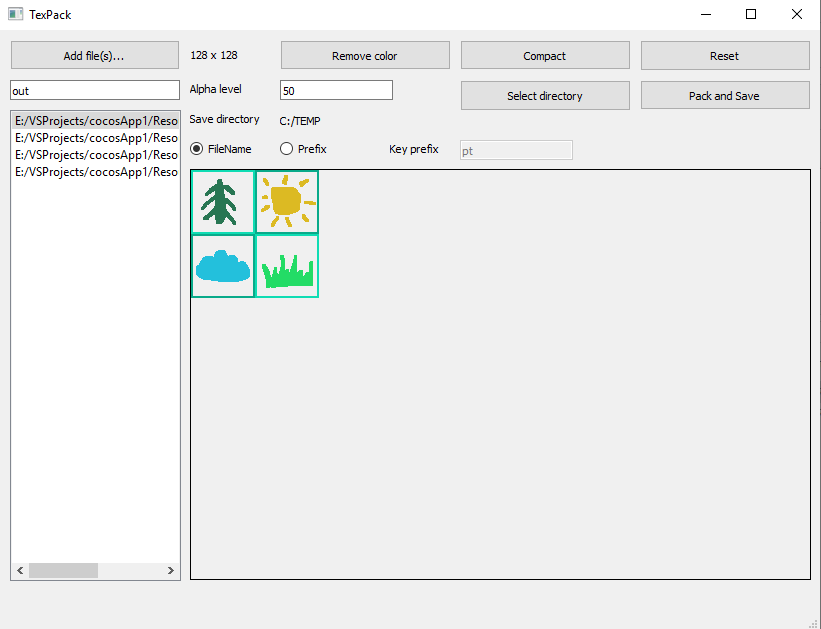
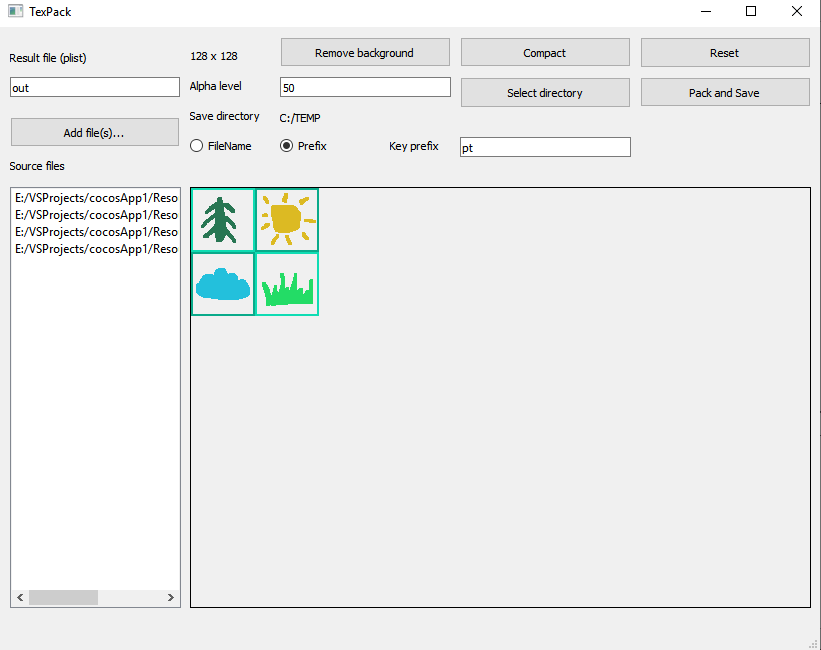
Add files via upload

diff --git a/mainwindow.cpp b/mainwindow.cpp
@@ -6,8 +6,8 @@ MainWindow::MainWindow(QWidget *parent)
     , ui(new Ui::MainWindow) {
     ui->setupUi(this);
     model = new QStringListModel(this);
-    ui->listView->setModel(model);
-    ui->listView->installEventFilter(this);
+    ui->lstvwSourceFiles->setModel(model);
+    ui->lstvwSourceFiles->installEventFilter(this);
     QTextCodec::setCodecForLocale(QTextCodec::codecForName("UTF-8"));
     saveDirectory = qApp->applicationDirPath();
     ui->lblDirectoryPath->setText(saveDirectory);
@@ -15,17 +15,39 @@ MainWindow::MainWindow(QWidget *parent)
 }
 
 MainWindow::~MainWindow() {
-    delete ui;
+    if(ui) delete ui;
+    if(model) delete model;
+    pixmapRects.clear();
 }
 
-bool MainWindow::eventFilter(QObject* object, QEvent* event)
-{
+bool MainWindow::eventFilter(QObject* object, QEvent* event) {
     if (event->type() == QEvent::KeyPress) {
         QKeyEvent* keyEvent = static_cast<QKeyEvent *>(event);
         if (keyEvent->key() == Qt::Key_Delete) {
-            model->removeRow(ui->listView->currentIndex().row());
-            ui->lblPreview->clear();
-            ui->lblSize->setText("0 x 0");
+            if(model->rowCount() <= 0) {
+                return false;
+            }
+            int index = ui->lstvwSourceFiles->currentIndex().row();
+            pixmapRects.erase(pixmapRects.begin() + index);
+            model->removeRow(index);
+            if(model->rowCount() > 0) {
+              index = ui->lstvwSourceFiles->currentIndex().row();
+              ui->lblPreview->setPixmap(QPixmap::fromImage(pixmapRects[index].image));
+              ui->lblSize->setText(QString::number(pixmapRects[index].rect.width()) + " x " + QString::number(pixmapRects[index].rect.height()));
+            }
+            else {
+              ui->lblPreview->clear();
+              ui->lblSize->setText("0 x 0");
+            }
+        }
+        if (keyEvent->key() == 'R') {
+            if(model->rowCount() <= 0) {
+                return false;
+            }
+            int index = ui->lstvwSourceFiles->currentIndex().row();
+            pixmapRects[index].image = QImage(model->index(index).data().toString());
+            ui->lblPreview->setPixmap(QPixmap::fromImage(pixmapRects[index].image));
+            ui->lblSize->setText(QString::number(pixmapRects[index].rect.width()) + " x " + QString::number(pixmapRects[index].rect.height()));
         }
         return true;
     }
@@ -36,26 +58,23 @@ bool MainWindow::eventFilter(QObject* object, QEvent* event)
 
 void MainWindow::on_btnFilesOpen_clicked() {
     QStringList files = QFileDialog::getOpenFileNames(this, "Select one or more files to open", "/home", "Images (*.png)");
-    //if(files.empty()) return;
-    //model->removeRows(0, model->rowCount());
     int row;
     for(auto it = files.begin(); it != files.end(); it++) {
         row = model->rowCount();
         model->insertRows(row, 1);
         QModelIndex index = model->index(row);
         model->setData(index, it->toLocal8Bit().constData());
+        QImage image(index.data().toString());
+        QSize size = image.size();
+        pixmapRects.push_back(stPixmapRect(QRect(0, 0, size.width(), size.height()), image,
+            QFileInfo(model->index(row).data().toString()).fileName()));
     }
-
-    //ui->lblPreview->clear();
-    //ui->lblPreview->setText("Preview Image");
-    //ui->lblSize->setText("0 x 0");
 }
 
 void MainWindow::on_listView_clicked(const QModelIndex &index) {
     ui->lblPreview->clear();
 
-    QImage mainImage(index.data().toString());
-    QPixmap mainPixmap = QPixmap::fromImage(mainImage);
+    QPixmap mainPixmap = QPixmap::fromImage(pixmapRects[index.row()].image); //error!
     QSize size = mainPixmap.size();
 
     ui->lblSize->setText(QString::number(size.width()) + " x "+ QString::number(size.height()));
@@ -76,38 +95,31 @@ void MainWindow::on_listView_clicked(const QModelIndex &index) {
 }
 
 void MainWindow::on_btnRemoveColor_clicked() {
-    QPixmap mainPixmap = ui->lblPreview->pixmap(Qt::ReturnByValue);
-    if(mainPixmap.isNull()) {
+    int index = ui->lstvwSourceFiles->currentIndex().row();
+    if(model->rowCount() <= 0 || index < 0) {
         return;
     }
-
-    QImage mainImage(mainPixmap.toImage());
-
-    QBitmap colorMask = mainPixmap.createMaskFromColor(mainImage.pixel(0,0), Qt::MaskOutColor);
-    QImage maskImage(mainPixmap.size(), QImage::Format_RGBA8888);
-    QPainter maskPainter(&maskImage);
-    maskPainter.setPen(QColor(255, 255, 255));
-    maskPainter.drawPixmap(mainPixmap.rect(), colorMask, colorMask.rect());
-    maskPainter.end();
-    QPixmap maskPixmap = QPixmap::fromImage(maskImage);
-
-    QImage resultImage(mainPixmap.size(), QImage::Format_RGBA8888);
-    QPainter resultPainter(&resultImage);
-    resultPainter.setClipRegion(QRegion(maskPixmap));
-    resultPainter.drawPixmap(0, 0, mainPixmap);
-    resultPainter.end();
-    mainPixmap = QPixmap::fromImage(resultImage);
-
-    ui->lblPreview->setPixmap(mainPixmap);
+    QImage& image = pixmapRects[index].image;
+    QPixmap maskPixmap(QPixmap::fromImage(image));
+    if(maskPixmap.isNull()) {
+        return;
+    }
+    maskPixmap.setMask(maskPixmap.createHeuristicMask());
+    image = QImage(maskPixmap.toImage());
+    ui->lblPreview->setPixmap(maskPixmap);
 }
 
 void MainWindow::on_btnCompactImage_clicked() {
-    QPixmap mainPixmap = ui->lblPreview->pixmap(Qt::ReturnByValue);
+    int index = ui->lstvwSourceFiles->currentIndex().row();
+    if(model->rowCount() <= 0 || index < 0) {
+        return;
+    }
+    QImage& image = pixmapRects[index].image;
+    QPixmap mainPixmap(QPixmap::fromImage(image));
     if(mainPixmap.isNull()) {
         return;
     }
 
-    QImage mainImage(mainPixmap.toImage());
     QString preLevel = ui->edtAlphaLevel->text();
     preLevel.replace(" ", "");
     int level = 50;
@@ -115,11 +127,11 @@ void MainWindow::on_btnCompactImage_clicked() {
       level = preLevel.toInt();
     }
 
-    //need think about optimize
-    int min[2] = {mainImage.width(), mainImage.height()}, max[2] = {0, 0};
-    for (int x = 1 ; x < mainImage.width() - 1; x++) {
-        for (int y = 1 ; y < mainImage.height() - 1; y++) {
-            QColor currentPixel = mainImage.pixelColor(x, y);
+    //detect new rect
+    int min[2] = {image.width(), image.height()}, max[2] = {0, 0};
+    for (int x = 1 ; x < image.width() - 1; x++) {
+        for (int y = 1 ; y < image.height() - 1; y++) {
+            QColor currentPixel = image.pixelColor(x, y);
             if (currentPixel.alpha() > level) {
                 if(min[0] > x) min[0] = x;
                 if(min[1] > y) min[1] = y;
@@ -130,31 +142,18 @@ void MainWindow::on_btnCompactImage_clicked() {
     }
 
     QRect rect(min[0], min[1], max[0], max[1]);
-    mainImage = mainImage.copy(rect);
-    mainPixmap = QPixmap::fromImage(mainImage);
+    image = image.copy(rect);
+
+    QPixmap newPixmap = QPixmap::fromImage(image);
     QSize size = mainPixmap.size();
 
-    ui->lblPreview->setPixmap(mainPixmap);
+    ui->lblPreview->setPixmap(newPixmap);
     ui->lblSize->setText(QString::number(size.width()) + " x " + QString::number(size.height()));
 }
 
 void MainWindow::on_btnPackImages_clicked() {
     int rowNumber = model->rowCount();
     if(!rowNumber) return;
-
-    std::vector<stPixmapRect> pixmapRects;
-    std::vector<QImage> images;
-    pixmapRects.reserve(rowNumber);
-    images.reserve(rowNumber);
-
-    for(int i=0; i<rowNumber; i++) {
-        QImage image(model->index(i).data().toString());
-        QSize size = image.size();
-        images.push_back(image);
-        //pixmapRects.push_back(stPixmapRect(QRect(0, 0, size.width(), size.height()), &images[i]));
-        pixmapRects.push_back(stPixmapRect(QRect(0, 0, size.width(), size.height()), &images[i],
-            QFileInfo(model->index(i).data().toString()).fileName()));
-    }
 
     QSize resultSize(0, 0);
     std::vector<stPixmapRect> result = packRects2(pixmapRects, resultSize);
@@ -163,10 +162,9 @@ void MainWindow::on_btnPackImages_clicked() {
     QPainter resultPainter(&resultImage);
     for(size_t i=0; i < result.size(); i++) {
         QRect rect = result[i].rect;
-        QImage image = *result[i].pImage;
         resultPainter.fillRect(rect, Qt::transparent);
         resultPainter.setCompositionMode(QPainter::CompositionMode_Source);
-        resultPainter.drawImage(rect, image);
+        resultPainter.drawImage(rect, result[i].image);
     }
     QPixmap mainPixmap = QPixmap::fromImage(resultImage);
     ui->lblPreview->setPixmap(mainPixmap);
@@ -196,6 +194,7 @@ void MainWindow::on_btnPackImages_clicked() {
         for(size_t i=0; i < result.size(); i++) {
             if(ui->edtKeyPrefix->isEnabled()) {
                 prefixName = ui->edtKeyPrefix->text();
+                prefixName.replace(" ", "");
                 if(prefixName.length() <= 0) {
                     prefixName = "pt";
                 }
@@ -244,22 +243,22 @@ void MainWindow::on_btnPackImages_clicked() {
         out << "\t\t\t<key>format</key>\n";
         out << "\t\t\t<integer>3</integer>\n";
         out << "\t\t\t<key>pixelFormat</key>\n";
+
         //may change
         out << "\t\t\t<string>RGBA8888</string>\n";
         out << "\t\t\t<key>premultiplyAlpha</key>\n";
         out << "\t\t\t<false/>\n";
         out << "\t\t\t<key>realTextureFileName</key>\n";
-        out << "\t\t\t<string>" << ui->edtOutFilename->text() << ".png" << "</string>\n";
+        out << "\t\t\t<string>" << outFile << ".png" << "</string>\n";
         out << "\t\t\t<key>size</key>\n";
         out << "\t\t\t<string>{" << resultSize.width() << "," << resultSize.height() << "}</string>\n";
         out << "\t\t\t<key>textureFileName</key>\n";
-        out << "\t\t\t<string>" << ui->edtOutFilename->text() << ".png</string>\n";
+        out << "\t\t\t<string>" << outFile << ".png</string>\n";
         out << "\t\t</dict>\n";
         out << "\t</dict>\n</plist>";
     }
 
-    pixmapRects.clear();
-    images.clear();
+    //pixmapRects.clear();
     result.clear();
 }
 
@@ -295,7 +294,7 @@ std::vector<stPixmapRect> MainWindow::packRects2(std::vector<stPixmapRect> rects
             }
 
             //add rect
-            stPixmapRect pixmapRect(QRect(spaces[j].x(), spaces[j].y(), rects[i].rect.width(), rects[i].rect.height()), rects[i].pImage, rects[i].filename);
+            stPixmapRect pixmapRect(QRect(spaces[j].x(), spaces[j].y(), rects[i].rect.width(), rects[i].rect.height()), rects[i].image, rects[i].filename);
             packed.push_back(pixmapRect);
             resultSize.setWidth(std::max(resultSize.width(), pixmapRect.rect.x() + pixmapRect.rect.width()));
             resultSize.setHeight(std::max(resultSize.height(), pixmapRect.rect.y() + pixmapRect.rect.height()));
@@ -328,10 +327,11 @@ void MainWindow::on_btnSelectDirectory_clicked() {
 }
 
 void MainWindow::on_btnReset_clicked() {
-    model->removeRows(0, model->rowCount());
     ui->lblPreview->clear();
     ui->lblPreview->setText("Preview Image");
     ui->lblSize->setText("0 x 0");
+    model->removeRows(0, model->rowCount());
+    pixmapRects.clear();
 }
 
 void MainWindow::on_rbtPref_prefix_clicked() {

diff --git a/mainwindow.h b/mainwindow.h
@@ -21,21 +21,21 @@ namespace Ui { class MainWindow; }
 QT_END_NAMESPACE
 
 struct stPixmapRect {
-    QRect rect;
-    QImage* pImage;
+    QRect rect;//holding new coordinates after pack
+    QImage image;
     QString filename;
     stPixmapRect() {
         rect = QRect(0,0,0,0);
-        pImage = nullptr;
+        image = QImage();
         filename = "";
     }
-    stPixmapRect(QRect inRect, QImage* inImage) {
+    stPixmapRect(QRect inRect, const QImage& inImage) {
         rect = inRect;
-        pImage = inImage;
+        image = inImage;
     }
-    stPixmapRect(QRect inRect, QImage* inImage, QString inFilename) {
+    stPixmapRect(QRect inRect, const QImage& inImage, QString inFilename) {
         rect = inRect;
-        pImage = inImage;
+        image = inImage;
         filename = inFilename;
     }
 };
@@ -55,19 +55,16 @@ private slots:
     void on_btnRemoveColor_clicked();
     void on_btnCompactImage_clicked();
     void on_btnPackImages_clicked();
-    std::vector<stPixmapRect> packRects2(std::vector<stPixmapRect> rects, QSize& size);
-
     void on_btnSelectDirectory_clicked();
-
     void on_btnReset_clicked();
-
     void on_rbtPref_prefix_clicked();
-
     void on_rbtPref_filename_clicked();
 
 private:
     Ui::MainWindow* ui;
     QStringListModel *model;
     QString saveDirectory;
+    std::vector<stPixmapRect> pixmapRects;
+    std::vector<stPixmapRect> packRects2(std::vector<stPixmapRect> rects, QSize& size);
 };
 #endif // MAINWINDOW_H
